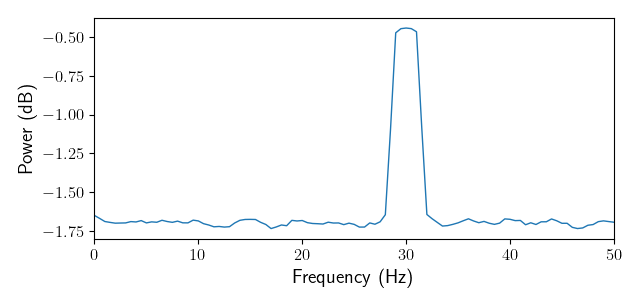
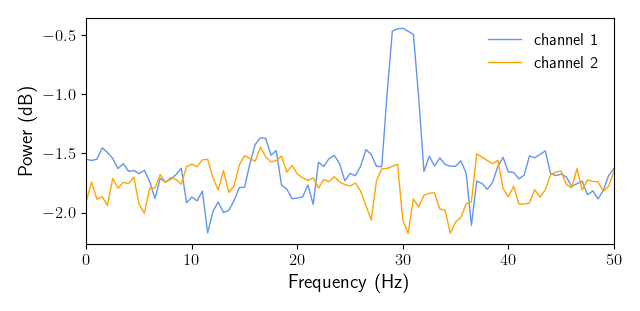
WIP: Quickstart Guide
- added Wavelet analysis

Changes to be committed:
	renamed:    doc/source/scripts/qs_damped_harm.py -> doc/source/quickstart/damped_harm.py
	modified:   doc/source/quickstart/mtmfft_spec.png
	modified:   doc/source/quickstart/quickstart.rst
	new file:   doc/source/quickstart/wavelet_spec.png
	modified:   doc/source/user/logging.rst
	modified:   doc/source/user/synth_data.rst
	modified:   syncopy/plotting/spy_plotting.py

diff --git a/syncopy/plotting/spy_plotting.py b/syncopy/plotting/spy_plotting.py
@@ -54,12 +54,12 @@ if __plt__:
 pltConfig = {"singleTitleSize": 12,
              "singleLabelSize": 14,
              "singleTickSize": 12,
-             "singleLegendSize": 10,
+             "singleLegendSize": 12,
              "singleFigSize": (6.4, 4.8),
-             "multiTitleSize": 10,
-             "multiLabelSize": 8,
-             "multiTickSize": 6,
-             "multiLegendSize": 8,
+             "multiTitleSize": 14,
+             "multiLabelSize": 14,
+             "multiTickSize": 10,
+             "multiLegendSize": 12,
              "multiFigSize": (10, 6.8)}
 
 # Global consistent error message if matplotlib is missing

diff --git a/doc/source/quickstart/damped_harm.py b/doc/source/quickstart/damped_harm.py
@@ -19,9 +19,11 @@ signal = dampening * harm
 trials = []
 for _ in range(nTrials):
 
-    white_noise = np.random.randn(nSamples, nChannels)    
-    trial = np.tile(signal, (2, 1)).T + white_noise
+    # start with the noise
+    trial = np.random.randn(nSamples, nChannels)
+    # now add the damped harmonic on the 1st channel
+    trial[:, 0] += signal
     trials.append(trial)
 
 # instantiate Syncopy data object
-synth_data = spy.AnalogData(trials, samplerate=samplerate)
+data = spy.AnalogData(trials, samplerate=samplerate)

diff --git a/doc/source/quickstart/quickstart.rst b/doc/source/quickstart/quickstart.rst
@@ -18,7 +18,9 @@ Preparations
 
 To start with a clean slate, let's construct a synthetic signal consisting of a damped harmonic and additive white noise:
 
-.. literalinclude:: /scripts/qs_damped_harm.py
+.. literalinclude:: /quickstart/damped_harm.py
+
+With this we have white noise on both channels, and only channel 1 additionally got the damped harmonic signal.
 
 .. hint::
    Further details about artifical data generatation can be found at the :ref:`synth_data` section.
@@ -30,7 +32,7 @@ We can get some basic information about any Syncopy dataset by just typing its n
 
 .. code-block:: python
 		
-   synth_data
+   data
 
 which gives nicely formatted output:
 
@@ -57,7 +59,7 @@ which gives nicely formatted output:
 So we see that we indeed got 50 trials with 2 channels and 1000 samples each. Note that Syncopy per default **stores and writes all data on disc**, as this allows for seamless processing of larger than RAM datasets. The exact location and filename of a dataset in question is listed at the ``filename`` field. The standard location is the ``.spy`` directory created automatically in the users home directory. To change this and for more details please see :ref:`setup_env`.
 
 .. hint::
-   You can access each of the shown meta-information fields separately using standard Python attribute access, e.g. ``synth_data.filename`` or ``synth_data.samplerate``.
+   You can access each of the shown meta-information fields separately using standard Python attribute access, e.g. ``data.filename`` or ``data.samplerate``.
 
       
 Time-Frequency Analysis
@@ -74,7 +76,7 @@ Multitapered Fourier Analysis
 
 .. code-block::
 
-   spectra = spy.freqanalsysis(synth_data, method='mtmfft', foilim=[0, 50], taper='dpss', tapsmofrq=3)
+   spectra = spy.freqanalsysis(data, method='mtmfft', foilim=[0, 50], taper='dpss', tapsmofrq=3)
 
 The parameter ``foilim`` controls the *frequencies of interest  limits*, so in this case we are interested in the range 0-50Hz. Starting the computation interactively will show additional information::
 
@@ -83,7 +85,7 @@ The parameter ``foilim`` controls the *frequencies of interest  limits*, so in t
 informing us, that for this dataset a spectral smoothing of 3Hz required 5 Slepian tapers.
 
 .. hint::
-   Try typing ``spectra.log`` into your intepreter and have a look at :doc:`Trace Your Steps: History </user/logging>` so learn more about Syncopy's logging features
+   Try typing ``spectra.log`` into your intepreter and have a look at :doc:`Trace Your Steps: Data Logs </user/logging>` to learn more about Syncopy's logging features
    
 To quickly have something for the eye we can plot the power spectrum using the generic :func:`syncopy.singlepanelplot`::
 
@@ -92,5 +94,28 @@ To quickly have something for the eye we can plot the power spectrum using the g
 .. image:: mtmfft_spec.png
    :height: 250px
 
-The originally very sharp harmonic peak around 30Hz got widened to about 3Hz, for all other frequencies we have the expected flat white noise floor.
+The originally very sharp harmonic peak around 30Hz for channel 1 got widened to about 3Hz, channel 2 just has the flat white noise floor.
 
+The related short time Fourier transform can be computed via ``method='mtmconvol'``, see :func:`~syncopy.freqanalysis` for more details and examples.
+
+
+Wavelet Analysis
+----------------
+
+`Wavelet Analysis <https://en.wikipedia.org/wiki/Continuous_wavelet_transform>`_, especially with `Morlet Wavelets <https://en.wikipedia.org/wiki/Morlet_wavelet>`_, is a well established method for time-frequency analysis. For each frequency of interest (``foi``), a Wavelet function gets convolved with the signal yielding a time dependent cross-correlation. By (densely) scanning a range of frequencies, a continuous time-frequency representation of the original signal can be generated.
+
+In Syncopy we can compute the Wavelet transform by calling :func:`~syncopy.freqanalysis` with the ``method='wavelet'` argument::
+
+  # define frequencies to scan
+  fois = np.arange(10, 50, step=2) # 2Hz stepping 
+  wav_spectra = spy.freqanalysis(data, method='wavelet', foi=fois)
+
+To quickly inspect the results for each channel we can use::
+
+  wav_spectra.multipanelplot()
+
+  
+.. image:: wavelet_spec.png
+   :height: 250px
+
+Again, we see a strong 30Hz signal in the 1st channel, and channel 2 is devoid of any rhythms. However now we also get information along the time axis, the dampening of the harmonic in channel 1 is clearly visible.

diff --git a/doc/source/user/logging.rst b/doc/source/user/logging.rst
@@ -1,11 +1,11 @@
 .. _logging:
 
-Trace Your Steps: Logging
-==========================
+Trace Your Steps: Data Logs
+===========================
 
-An important feature of Syncopy fostering reproducibility is a ``log`` which gets attached to and propagated between datasets. Typing::
+An important feature of Syncopy fostering reproducibility is a ``log`` which gets attached to and propagated between all datasets. Suppose we have some :class:`~syncopy.SpectralData` and we want to know how we did arrive at these results, typing::
 
-  spectra.log
+  spectral_data.log
 
 Gives a output like this::
 
@@ -36,4 +36,4 @@ Gives a output like this::
 	tapsmofrq = 3
 
 
-We see that from the creation of the original :class:`~syncopy.AnalogData` all steps needed to compute our new :class:`~syncopy.SpectralData` got recorded.
+We see that from the creation of the original :class:`~syncopy.AnalogData` all steps needed to compute the new :class:`~syncopy.SpectralData` got recorded. In this example the specta were computed via the multitapered FFT, with a spectral smoothing box (``tapsmofrq``) of 3Hz which required 5 Slepian tapers. The frequencies of interest (``foi``) range from 0Hz to 50Hz with 0.5Hz stepping and ``keeptrials`` was set to ``True``, meaning that this dataset contains the results for all trials separately.

diff --git a/doc/source/user/synth_data.rst b/doc/source/user/synth_data.rst
@@ -52,7 +52,7 @@ These generators return single-trial NumPy arrays, so to import them into Syncop
 .. autofunction:: AR2_network
 
 
-Synthetic Data from Scratch
+Example: Noisy Harmonics
 ---------------------------
 
 We can easily create custom synthetic datasets using basic `NumPy <https://numpy.org>`_ functionality and Syncopy's :class:`~syncopy.AnalogData`.
